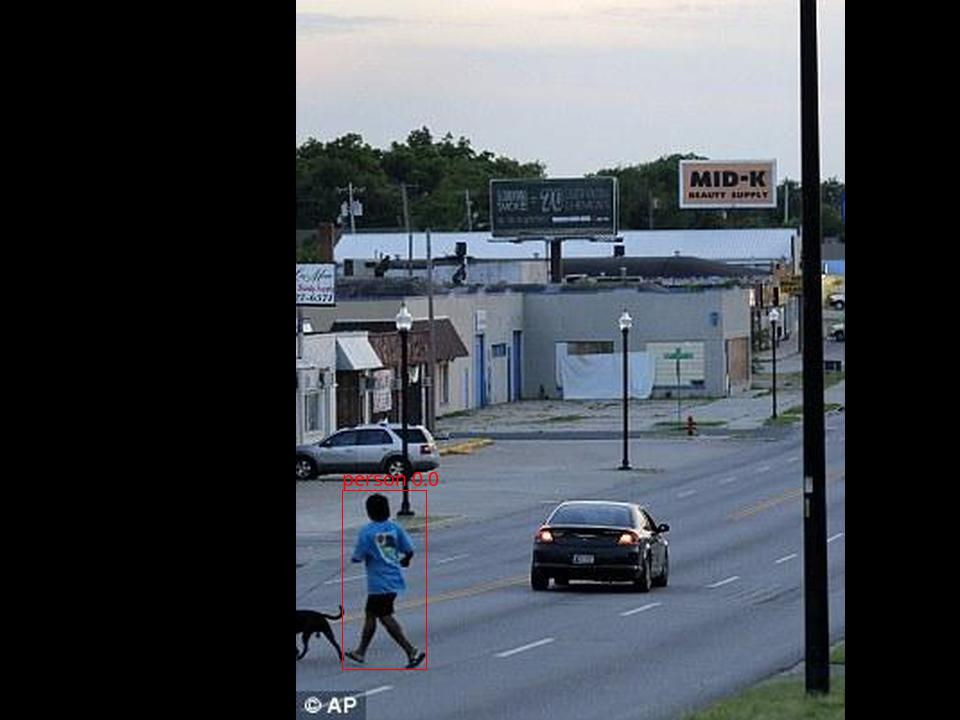
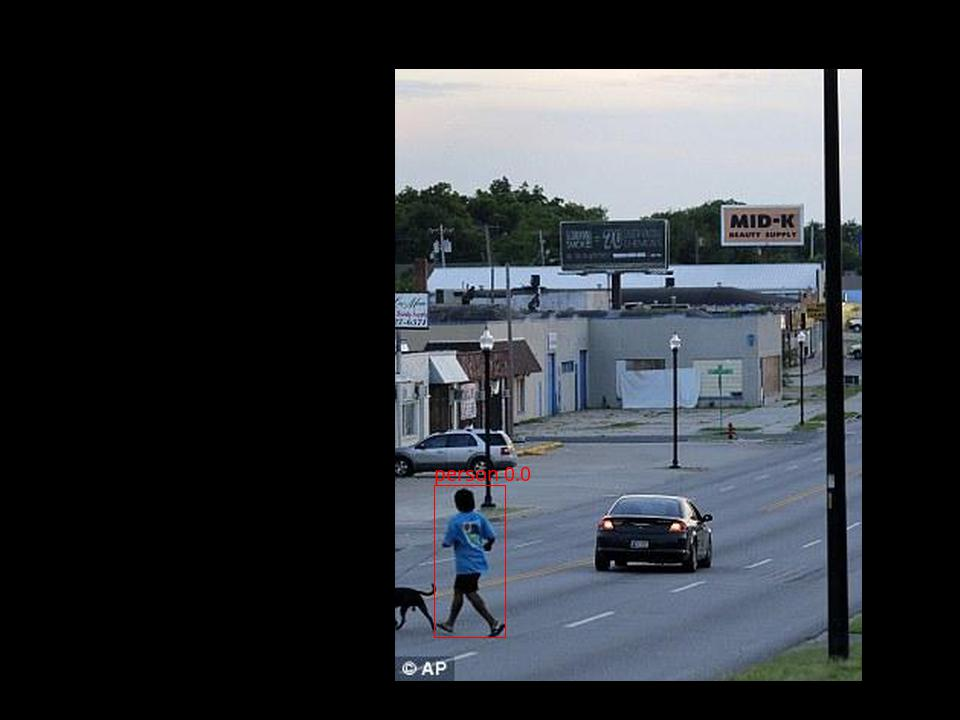
update

diff --git a/image_pylib.py b/image_pylib.py
@@ -33,11 +33,26 @@ class BBX:
 class IMGLIB:
     def __init__(self):
         pass
+    def setBBXs(self,bboxs,name0):
+        self.bbxs = []
+        for bbox in bboxs:
+            bbx = BBX()
+            bbx.name = name0
+            bbx.x = int(bbox[0])
+            bbx.y = int(bbox[1])
+            bbx.w = int(bbox[2])
+            bbx.h = int(bbox[3])
+            bbx.score = bbox[4]
+            self.bbxs.append(bbx)
+
+    def showBBXs(self):
+        self.drawBox()
+        self.img.show()
     def savaBBXs(self,fileName):
         f = open(fileName,'w')
         f.write('% bbGt version=3\n')
         for bbx in self.bbxs:
-            f.write('%s %d %d %d %d 0 0 0 0 0 0 0'%(bbx.name,bbx.x,bbx.y,bbx.w,bbx.h))
+            f.write('%s %d %d %d %d 0 0 0 0 0 0 0\n'%(bbx.name,bbx.x,bbx.y,bbx.w,bbx.h))
         f.close()
 
     def drawOneBox(self,bbx):
@@ -59,9 +74,7 @@ class IMGLIB:
             self.drawOneBox(bbx)
 
     def read_img(self, fileName):
-        
         self.img = Image.open(fileName)
-
 
     def read_ano(self, fileName):
     
@@ -79,27 +92,27 @@ class IMGLIB:
         for bbx in self.bbxs:
             bbx.resize(r,x_d,y_d)
 
-    def resize(self, width, height):
+    def resize(self, width, height,scale = 1.0):
         o_width, o_height = self.img.size
+        t_width = int(width * scale)
+        t_height= int(height* scale)
+
         o_ratio = o_width/float(o_height)
         n_ratio = width/float(height)
         
         if o_ratio > n_ratio:
-            re_ration = width/float(o_width)
+            re_ration = t_width/float(o_width)
             a_height = int(re_ration*o_height)
-            a_width = width
-            self.x_d = 0
-            self.y_d = random.randint(0, abs(a_height-height) )
+            a_width = t_width
             self.img = self.img.resize((a_width,a_height),Image.ANTIALIAS)
         else:
-            re_ration = height/float(o_height)
+            re_ration = t_height/float(o_height)
             a_width = int(re_ration*o_width)
-            a_height = height
-            self.y_d = 0
-            self.x_d = random.randint(0, abs(a_width-width) )
+            a_height = t_height
             self.img = self.img.resize( (a_width,a_height),Image.ANTIALIAS)
 
-        
+        self.x_d = random.randint(0, abs(a_width-width) )
+        self.y_d = random.randint(0, abs(a_height-height) )
         imgNew = Image.new("RGB", (width, height), "black")
 
         box = (0,0,a_width,a_height) 
@@ -125,7 +138,7 @@ if __name__ == '__main__':
 
     imglib.read_img(imageName)
     imglib.read_ano(anoName)
-    imglib.resize(imgWidth,imgHeight)
+    imglib.resize(imgWidth,imgHeight,0.85)
     imglib.drawBox()
     imglib.save_img(saveImgName)
     imglib.savaBBXs(saveAnoName)
